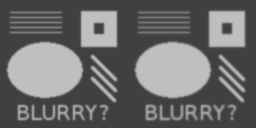
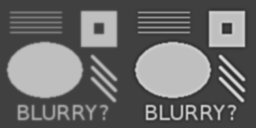
Solved problem 4 (partially)!!
Good stuff for doing sharpening!

diff --git a/p2.m b/p2.m
@@ -86,4 +86,78 @@ for c = 1:4
     norm(A*x(:,c)-b,2)
 end
 
+%% Problem 3
+% 
+for c = 1:4
+        
+Error(c) = cond(A*x(:,c));
+
+end
+
+%% Problem 4
+% 
+%% Read an image from a file
+u = imread('testpat_blur2.png');
+%u = imread('eye.png');
+% convert image to double and scale to [0,1]
+u = double(u) / 255;
+
+[n,n2] = size(u);
+if (n ~= n2)
+  error('by default, this only supports square images')
+end
+
+
+%% Build a discrete 2D Laplace operator
+e = ones(n,1);
+L1 = spdiags([e  -2*e  e], [-1 0 1], n, n);
+% this next line implements "Neumann boundary conditions": you could
+% try commenting it out.
+L1(1,1) = -1;   L1(end,end) = -1;
+I = speye(n,n);
+L = kron(L1, I) + kron(I, L1);
+
+
+figure(1); clf;
+%pcolor(u); % try this one too
+imagesc(u);
+caxis([0 1])
+colormap(gray)
+axis equal, axis tight
+
+
+% "stretch" the matrix representation of the image into one long
+% vector.
+v = reshape(u, n*n, 1);
+
+% L IS THE BLURRING!
+
+
+% Do 10 steps of blurring
+for i=1:10
+  v = v + 0.01*(L*v);
+end
+
+% convert the long vector back into a matrix
+ublur = reshape(v, n, n);
+
+
+figure(2); clf;
+imagesc(ublur);
+caxis([0 1])
+colormap(gray)
+axis equal, axis tight
+
+edgemap = u - ublur;
+
+unsharp = u + edgemap;
+
+
+%% Output original and result side-by-side
+% You could look at the resulting file with a web browser or image
+% viewer
+result = [u  unsharp];
+imwrite(result, 'result.png')
+
+
 

diff --git a/hw3_image_example/hw3_image_example.m b/hw3_image_example/hw3_image_example.m
@@ -32,6 +32,8 @@ axis equal, axis tight
 % vector.
 v = reshape(u, n*n, 1);
 
+% L IS THE BLURRING!
+
 
 % Do 10 steps of blurring
 for i=1:10
@@ -48,9 +50,13 @@ caxis([0 1])
 colormap(gray)
 axis equal, axis tight
 
+edgemap = u - ublur;
+
+unsharp = u + edgemap;
+
 
 %% Output original and result side-by-side
 % You could look at the resulting file with a web browser or image
 % viewer
-result = [u  ublur];
+result = [u  unsharp];
 imwrite(result, 'result.png')
